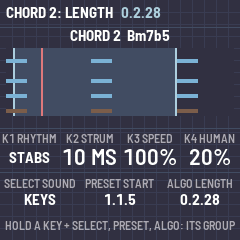
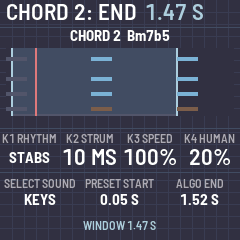
0.40: the window's START and END lines move smoothly (faster turn, bigger steps; HOME held, finest), anywhere up to a quarter past either edge, notes staying put, outside dark and silent; seconds on screen. Progressions one shot, no loop; arps and rhythms go round while held; HOLD chords till let go
Claude-Session: https://claude.ai/code/session_011auXBbJuCRdHVG1fENKT8m

diff --git a/app/app.c b/app/app.c
@@ -275,7 +275,8 @@ typedef struct {
     uint8_t plays, human, speed, vel;    /* speed: SPEED_PCT[]; vel 0: as you play it, else that velocity */
     int8_t len, inv, oct, rsv;
     uint8_t strum, swing, bm, rsv2;      /* strum: 5 ms steps (0 off); swing: 50 .. 75 %; bm: BASS, NO BASS, NO ROOT */
-    uint16_t st, sl;                     /* the window: START (ticks in), its LENGTH (ticks; 0: to the end, a bar) */
+    int16_t st, sl;                      /* the window: START, END (ticks; END 0: the sequence's end). Up to a quarter
+                                          * of the sequence past either edge, silent there */
 } pfx_t;
 static const uint16_t SPEED_PCT[7] = {50, 67, 75, 100, 133, 150, 200};
 static PLAT_POOL pad_t pads[NPADS + 1];
@@ -811,13 +812,15 @@ static void pl_release(uint32_t i)
             pl[i].snd[k] = 0;
         }
 }
-static uint32_t pwin_len(uint32_t i)     /* a pad's window: its LENGTH, or from START to its end (a chord: a bar) */
+static int32_t seq_len(uint32_t i)       /* a key's sequence: a progression's bars, a chord's bar */
 {
-    const pfx_t *f = &pfx[i];
-    uint32_t full = pads[i].type == PAD_PROG ? pads[i].len : 4u * PPQ;
-    if (f->sl)
-        return f->sl;
-    return full > f->st + 12u ? full - f->st : 12u;
+    return pads[i].type == PAD_PROG ? (int32_t)pads[i].len : (int32_t)(4u * PPQ);
+}
+static int32_t win_end(uint32_t i) { return pfx[i].sl ? pfx[i].sl : seq_len(i); }
+static uint32_t pwin_len(uint32_t i)     /* a key's window: START to END */
+{
+    int32_t l = win_end(i) - pfx[i].st;
+    return l > 12 ? (uint32_t)l : 12u;
 }
 static void phrase_tick(uint32_t n)
 {
@@ -871,13 +874,9 @@ static void phrase_tick(uint32_t n)
             }
         }
         P->pos = b;
-        if (P->pos >= we) {
+        if (P->pos >= we) {              /* START to END once: no loop (the LOOP recorder loops) */
             pl_release(i);
-            if (i < NPADS && (pad_held[i] || pad_latched[i]) && we > 0.0f) {
-                P->pos -= we;
-                P->looped = 1;
-            } else
-                P->on = 0;
+            P->on = 0;
         }
     }
 }
@@ -932,6 +931,8 @@ static void cp_start(uint32_t i, uint32_t vel)
         c->vel[k] = (uint8_t)(f->human ? human_vel(vel, f->human) : vel);
         c->sounded[k] = 0;
         c->at[k] = k * ss + (f->human ? cs_rnd() % (f->human * 13u + 1u) : 0u);
+        if (f->st < 0)                   /* START before the chord: a gap before it sounds */
+            c->at[k] += (uint32_t)((float)(-f->st) * SR * 60.0f / ((float)tempo * (float)PPQ) / c->spd);
     }
     c->t = c->next = c->idx = c->off = 0;
     c->u = c->left = 0.0f;
@@ -965,7 +966,7 @@ static void cp_fire(cplay_t *c, float t0, float t1)   /* the hits in [t0, t1), p
     uint32_t j = t0 > step ? (uint32_t)(t0 / step) - 1u : 0u, k, li = (uint32_t)(c->len + 5);
     for (;; j++) {
         float tj = grid_t(j, step, c->swing);
-        if (tj >= t1)
+        if (tj >= t1 || tj >= (float)(4u * PPQ))   /* past the bar: the window's silent extra */
             break;
         if (tj < t0)
             continue;
@@ -1551,7 +1552,7 @@ static void undo_swap(void)              /* one step back; again: forward */
 
 /* ------------------------------------------------------ SAVE and LOAD --- */
 /* the session: the settings; every pad's source, its PAD EDIT and (LOCKed or recorded) its notes */
-#define SESS_MAGIC 0x34534553u           /* "SES4" */
+#define SESS_MAGIC 0x35534553u           /* "SES5" */
 typedef struct {
     uint32_t magic;
     desc_t d[NPADS];
@@ -1855,6 +1856,18 @@ static void loop_play(void)              /* PLAY: stop it; armed, the intro and 
         app_say("LOOP", "EMPTY: REC, THEN PLAY");
 }
 
+static void sec_text(uint32_t tk, int32_t i, char *t)   /* ticks as seconds at the BPM and the key's speed: "2.40 S" */
+{
+    float sp = (float)SPEED_PCT[pfx[i].speed % 7u] / 100.0f;
+    uint32_t cs = (uint32_t)((float)tk * 6000.0f / ((float)tempo * (float)PPQ) / sp + 0.5f), l;   /* hundredths */
+    num_text((int32_t)(cs / 100u), t, 0);
+    l = cs_len(t);
+    t[l] = '.';
+    t[l + 1u] = (char)('0' + cs / 10u % 10u);
+    t[l + 2u] = (char)('0' + cs % 10u);
+    t[l + 3u] = 0;
+    text_cat(t, " S");
+}
 /* SELECT's list for a group: a sound, or MIDI 1-4 (silent on the FM-1, out on that channel) */
 static void sel_name(uint32_t v, char *t)
 {
@@ -2315,8 +2328,8 @@ buttons:
                 ui.co_pick = (uint8_t)clamp(ui.co_pick + k1, CO_OFF, CO_ALWAYS);
             es = k1 = k2 = k3 = k4 = ek = ea = 0;
         }
-        /* SELECT, PRESET, ALGO: only with a key held. SELECT: the group's sound or MIDI channel. PRESET: START,
-         * ALGO: LENGTH of the window the group plays (1/32 of a beat a click; HOME held: a 16th) */
+        /* SELECT, PRESET, ALGO: only with a key held. SELECT: the group's sound or MIDI channel. PRESET: the START
+         * line, ALGO: the END line of the window the group plays, smooth (HOME held: the finest) */
         if ((es || ek || ea) && ui.screen != SCR_PICK) {
             uint32_t hp = held_pads(), hn = held_notes(), j, r = 0;
             if (hp)
@@ -2324,30 +2337,50 @@ buttons:
                     r++;
             if (es && (hp || hn))
                 sel_step(hp ? (r < 8u ? 0u : 1u) : 2u, es);
-            if ((ek || ea) && hp) {
-                int32_t stp = shift() ? 24 : 3;
+            if ((ek || ea) && hp) {      /* the window's lines, smooth: tiny steps, bigger the faster you turn */
+                static uint32_t at_k, at_a;
+                uint32_t now2 = plat_ms(), dtk = now2 - (ek ? at_k : at_a);
+                int32_t full_r = seq_len(r), stp = full_r / 300 > 1 ? full_r / 300 : 1, d = ek ? ek : ea;
                 uint32_t g = pad_grp(r), m = grp_pads(g) | hp;
-                int32_t ref_st = (int32_t)pfx[r].st + ek * stp, ref_l = (int32_t)pwin_len(r) + ea * stp;
+                int hold_chord = pads[r].type == PAD_CHORD && (pfx[r].plays == RH_HOLD);
                 char t[16];
-                for (j = 0; j < NPADS; j++)
-                    if ((m >> j & 1u) && pads[j].type != PAD_EMPTY && pad_grp(j) == g) {
-                        int32_t full = pads[j].type == PAD_PROG ? (int32_t)pads[j].len : (int32_t)(4u * PPQ);
-                        if (ek)
-                            pfx[j].st = (uint16_t)clamp(ref_st, 0, full - 12);
-                        if (ea)
-                            pfx[j].sl = (uint16_t)clamp(ref_l, 12, pads[j].type == PAD_PROG ? 2 * full : 16 * (int32_t)PPQ);
-                        cp[j].st = (float)pfx[j].st;
-                        cp[j].wl = (float)pwin_len(j);
-                    }
-                pos_text(ek ? pfx[r].st : pwin_len(r), t, ek != 0);
-                edit_say(ek ? "START" : "LENGTH", t);
+                if (shift())
+                    stp = 1;
+                else if (dtk < 40u)
+                    stp *= 6;
+                else if (dtk < 110u)
+                    stp *= 3;
+                if (ek)
+                    at_k = now2;
+                else
+                    at_a = now2;
+                if (ea && hold_chord)
+                    app_say("END", "n/a: A HELD CHORD PLAYS TILL YOU LET GO");
+                else {
+                    int32_t ref_st = pfx[r].st + d * stp, ref_en = win_end(r) + d * stp;
+                    for (j = 0; j < NPADS; j++)
+                        if ((m >> j & 1u) && pads[j].type != PAD_EMPTY && pad_grp(j) == g) {
+                            int32_t full = seq_len(j), q = full / 4;
+                            int hc = pads[j].type == PAD_CHORD && pfx[j].plays == RH_HOLD;
+                            if (ek)              /* START: a quarter before it .. the END */
+                                pfx[j].st = (int16_t)clamp(ref_st, -q, hc ? 0 : win_end(j) - 12);
+                            if (ea && !hc) {     /* END: the START .. a quarter after it */
+                                int32_t e = clamp(ref_en, pfx[j].st + 12, full + q);
+                                pfx[j].sl = (int16_t)(e == full ? 0 : e);
+                            }
+                            cp[j].st = (float)pfx[j].st;
+                            cp[j].wl = (float)pwin_len(j);
+                        }
+                    sec_text(pwin_len(r), r, t);
+                    edit_say(ek ? "START" : "END", t);
+                }
                 set_dirty = 1;
                 if (ui.screen != SCR_PAD) {   /* the window shows while the key is held */
                     ui.peek = (uint8_t)(ui.screen + 1u);
                     ui.screen = SCR_PAD;
                 }
             } else if ((ek || ea) && !hp)
-                app_say(ek ? "START" : "LENGTH", hn ? "NOTE KEYS: n/a" : "HOLD A CHORD OR PROGRESSION KEY");
+                app_say(ek ? "START" : "END", hn ? "NOTE KEYS: n/a" : "HOLD A CHORD OR PROGRESSION KEY");
             else if (es && !hp && !hn)
                 app_say("SOUND", "HOLD A KEY AND TURN SELECT");
             es = ek = ea = 0;
@@ -3042,8 +3075,6 @@ static void draw_roll(uint32_t i, int32_t x0, int32_t y0, int32_t w, int32_t h)
         }
         for (k = 0; k < cn; k++)
             v[k] += 12 * f->oct;
-        if ((float)(f->st + pwin_len(i)) > W && f->plays != RH_HOLD)
-            W = (float)(f->st + pwin_len(i));
         if (RH_ARP(f->plays) && cn) {
             uint32_t dir = f->plays - RH_ARPUP;
             float step = 48.0f, t = 0.0f;
@@ -3077,53 +3108,57 @@ static void draw_roll(uint32_t i, int32_t x0, int32_t y0, int32_t w, int32_t h)
             }
         if (cp[i].on && f->plays != RH_HOLD)
             head = cp[i].u + cp[i].st;
-        else if (cp[i].on) {
-            float bar = 4.0f * 60.0f / (float)tempo * SR / spd;
-            float t = (float)cp[i].t;
-            head = (t - (float)(int32_t)(t / bar) * bar) / bar * W;
-        }
+        else if (cp[i].on)               /* held: from the START line, then it stays at the bar's end */
+            head = fm_minf((float)f->st + (float)cp[i].t * (float)tempo * (float)PPQ * spd / (60.0f * SR), W - 1.0f);
     } else
         return;
-    cv_rect(x0, y0, w, h, ES_SLATE);
-    if (p->type == PAD_PROG || f->plays != RH_HOLD) {   /* the window: dark outside, START and END lines */
-        float a = (float)f->st, e = fm_minf((float)(f->st + pwin_len(i)), W);
-        int32_t xa = x0 + (int32_t)(a / W * (float)w), xe = x0 + (int32_t)(e / W * (float)w);
-        if (xa > x0)
+    {
+        /* the view: the sequence, and the lines wherever they are (a quarter past either edge at most) */
+        int hc = p->type == PAD_CHORD && f->plays == RH_HOLD;
+        float D0 = fm_minf(0.0f, (float)f->st), D1 = hc ? W : fm_maxf(W, (float)win_end(i)), DW = D1 - D0;
+        float a = (float)f->st, e = hc ? W : (float)win_end(i);
+#define RX(t) (x0 + (int32_t)(((t) - D0) / DW * (float)w))
+        int32_t xa = RX(a), xe = RX(e);
+        cv_rect(x0, y0, w, h, ES_SLATE);
+        cv_rect(RX(0.0f), y0 + h - 2, RX(W) - RX(0.0f), 2, ES_PURPLE);   /* the sequence itself */
+        if (xa > x0)                     /* outside the window: dark, silent */
             cv_rect(x0, y0, xa - x0, h, ES_INK);
         if (xe < x0 + w)
             cv_rect(xe, y0, x0 + w - xe, h, ES_INK);
+        for (k = 1; k < bars; k++)
+            cv_rect(RX(W * (float)k / (float)bars), y0, 1, h, ES_PURPLE);
         cv_rect(xa, y0, 2, h, AIR_C);
-        cv_rect(xe > x0 + 1 ? xe - 2 : xe, y0, 2, h, AIR_C);
+        if (!hc)
+            cv_rect(xe > x0 + 1 ? xe - 2 : xe, y0, 2, h, AIR_C);
+        if (!n || W <= 0.0f)
+            return;
+        for (k = 0; k < n; k++) {
+            if ((uint32_t)pi[k] < lo)
+                lo = (uint32_t)pi[k];
+            if ((uint32_t)pi[k] > hi)
+                hi = (uint32_t)pi[k];
+        }
+        rh = (h - 4) / (int32_t)(hi - lo + 1u);
+        if (rh > 8)
+            rh = 8;
+        if (rh < 1)
+            rh = 1;
+        for (k = 0; k < n; k++) {
+            int32_t x = RX(st[k]), xw = (int32_t)(du[k] / DW * (float)w);
+            int32_t y = y0 + h - 4 - ((int32_t)((uint32_t)pi[k] - lo) + 1) * rh;
+            int on = head >= st[k] && head < st[k] + du[k], out = st[k] < a || st[k] >= e;
+            if (x >= x0 + w)
+                continue;
+            if (xw < 2)
+                xw = 2;
+            if (x + xw > x0 + w)
+                xw = x0 + w - x;
+            cv_rect(x, y, xw, rh > 2 ? rh - 1 : rh, out ? ES_PURPLE : (uint32_t)pi[k] == lo ? EARTH_C : on ? C_WHITE : WATER_C);
+        }
+        if (head >= D0 && head < D1)
+            cv_rect(RX(head), y0, 2, h, FIRE_C);
+#undef RX
     }
-    for (k = 1; k < bars; k++)
-        cv_rect(x0 + w * (int32_t)k / (int32_t)bars, y0, 1, h, ES_PURPLE);
-    if (!n || W <= 0.0f)
-        return;
-    for (k = 0; k < n; k++) {
-        if ((uint32_t)pi[k] < lo)
-            lo = (uint32_t)pi[k];
-        if ((uint32_t)pi[k] > hi)
-            hi = (uint32_t)pi[k];
-    }
-    rh = (h - 4) / (int32_t)(hi - lo + 1u);
-    if (rh > 8)
-        rh = 8;
-    if (rh < 1)
-        rh = 1;
-    for (k = 0; k < n; k++) {
-        int32_t x = x0 + (int32_t)(st[k] / W * (float)w), xw = (int32_t)(du[k] / W * (float)w);
-        int32_t y = y0 + h - 2 - ((int32_t)((uint32_t)pi[k] - lo) + 1) * rh;
-        int on = head >= st[k] && head < st[k] + du[k];
-        if (x >= x0 + w)
-            continue;
-        if (xw < 2)
-            xw = 2;
-        if (x + xw > x0 + w)
-            xw = x0 + w - x;
-        cv_rect(x, y, xw, rh > 2 ? rh - 1 : rh, (uint32_t)pi[k] == lo ? EARTH_C : on ? C_WHITE : WATER_C);
-    }
-    if (head >= 0.0f)
-        cv_rect(x0 + (int32_t)(head / W * (float)w), y0, 2, h, FIRE_C);
 }
 static void draw_pad(void)               /* EDIT: the group played last (or the keys held), as the web's pad edit */
 {
@@ -3131,7 +3166,7 @@ static void draw_pad(void)               /* EDIT: the group played last (or the 
     uint32_t h = held_pads();
     char t[32], v[4][12], w[3][12];
     static const char *const LBL[4] = {"K1 RHYTHM", "K2 STRUM", "K3 SPEED", "K4 HUMAN"};
-    static const char *const LB2[3] = {"SELECT SOUND", "PRESET START", "ALGO LENGTH"};
+    static const char *const LB2[3] = {"SELECT SOUND", "PRESET START", "ALGO END"};
     uint32_t k;
     lab_begin();
     if (h)
@@ -3192,13 +3227,15 @@ static void draw_pad(void)               /* EDIT: the group played last (or the 
             str_set(v[3], "OFF", sizeof v[3]);
         bottom_bar(8, LBL, v);
         sel_name(set.snd[r < 8 ? 0 : 1], w[0]);
-        if (pads[r].type == PAD_CHORD && f->plays == RH_HOLD) {
-            str_set(w[1], "n/a", sizeof w[1]);
-            str_set(w[2], "n/a", sizeof w[2]);
-        } else {
-            pos_text(f->st, w[1], 1);
-            pos_text(pwin_len((uint32_t)r), w[2], 0);
-        }
+        if (f->st < 0) {                 /* START: the gap before (-), or how far in */
+            w[1][0] = '-';
+            sec_text((uint32_t)(-f->st), r, w[1] + 1);
+        } else
+            sec_text((uint32_t)f->st, r, w[1]);
+        if (pads[r].type == PAD_CHORD && f->plays == RH_HOLD)
+            str_set(w[2], "TILL LET GO", sizeof w[2]);
+        else
+            sec_text((uint32_t)win_end((uint32_t)r), r, w[2]);
         cv_rect(0, 52, 240, 1, ES_SLATE);
         for (k = 0; k < 3u; k++) {
             int32_t cx = (int32_t)k * 80;
@@ -3206,7 +3243,12 @@ static void draw_pad(void)               /* EDIT: the group played last (or the 
             cv_text(cx + (80 - text_w(&FONT_XS, LB2[k])) / 2, 56, &FONT_XS, LB2[k], LAB_LABEL);
             cv_text(cx + 1 + (78 - text_w(ft, w[k])) / 2, 72, ft, w[k], C_WHITE);
         }
-        text_c(98, &FONT_XS, "HOLD A KEY + SELECT, PRESET, ALGO: ITS GROUP", LAB_LABEL);
+        str_set(t, "WINDOW ", sizeof t);
+        if (pads[r].type == PAD_CHORD && f->plays == RH_HOLD)
+            text_cat(t, "TILL YOU LET GO");
+        else
+            sec_text(pwin_len((uint32_t)r), r, t + cs_len(t));
+        text_c(98, &FONT_XS, t, AIR_C);
     }
     cv_blit(0, 120);
 }

diff --git a/app/docs/MANUAL.md b/app/docs/MANUAL.md
@@ -53,7 +53,7 @@ the step, it moves on by itself:
 ## 3. The keys
 
 - **CHORD KEYS**: white keys 1 to 8, your key's chords (1 to 7, then the first one an octave up).
-- **PROGRESSION KEYS**: white keys 9 to 16, progressions of four bars each. A tap plays one once, holding it loops it.
+- **PROGRESSION KEYS**: white keys 9 to 16, progressions of four bars each. A tap plays it once, START to END, even if you let go; tapping again restarts it. SYS stops it. The LOOP recorder does the looping.
   One progression plays at a time: start another and the first stops.
 - **NOTE KEYS**: the first 7 black keys. The notes of your key, from the root up, sounding while you hold them.
 - **C pads**: the last 4 black keys. **BASS**, **NO BASS**, **NO ROOT** and **TAP**.
@@ -90,8 +90,8 @@ the BPM too.
 | K4 | Free for now |
 | OCT- / OCT+ | Octave: of the key you hold, else of the group you played last |
 | Hold a key + SELECT | The group's sound, or MIDI 1-4 |
-| Hold a key + PRESET | The group's window START |
-| Hold a key + ALGO | The group's window LENGTH |
+| Hold a key + PRESET | The group's window START line |
+| Hold a key + ALGO | The group's window END line |
 | HOME, held | SHIFT |
 
 ## The one rule
@@ -126,12 +126,21 @@ that key's whole group.
 | Hold a key and turn | Does |
 |---|---|
 | SELECT | The group's output: a sound (WARM, KEYS, ORGAN, STRINGS, PLUCK, BASS, BELL, LEAD, PAD, BRASS), or MIDI 1, 2, 3 or 4. A sound plays on the FM-1 with no MIDI; MIDI is silent on the FM-1 and goes out on that channel |
-| PRESET | START: where the group's window begins, 1/32 of a beat a click (HOME held: a 16th) |
-| ALGO | LENGTH: how long the window runs before it goes round again, the same steps |
+| PRESET | START: the line where the window begins |
+| ALGO | END: the line where it ends |
 
-The window shows while you turn and closes when you let go: the START and END lines, dark outside. Places read
-BAR.BEAT.32ND. A progression skips into its bars; a chord key on a rhythm or an arp skips into its pattern. A chord
-on HOLD and the note keys have no window (n/a). This is not note LENGTH (home K3), which is how long each note lasts.
+The lines move smoothly, in tiny steps that grow the faster you turn (hold HOME for the finest). They go anywhere,
+notes there or not, up to a quarter of the sequence past either edge, and the notes never move: what's outside the
+lines is dark and doesn't play. The window shows while you turn and closes when you let go, with its length in
+seconds.
+
+- **Progression keys**: a tap plays START to END once.
+- **Chord keys on a rhythm or an arp**: START to END goes round while you hold the key, and stops when you let go.
+- **Chord keys on HOLD (plain or strummed)**: sound until you let go. START before the chord gives a gap before it
+  sounds; END doesn't apply.
+- **Note keys**: a piano, no window.
+
+This is not note LENGTH (home K3), which is how long each note lasts.
 
 ![The window](img/seed-window.png)
 
@@ -221,7 +230,7 @@ MIDI goes out over **USB** and **Bluetooth** (the FM-1's TRS jack is MIDI in onl
 | Control | Does |
 |---|---|
 | Chord keys (white 1 to 8) | Chords. In LIB, take the pick. In REC, pick the key |
-| Progression keys (white 9 to 16) | Progressions, one at a time. A tap plays it once, held it loops |
+| Progression keys (white 9 to 16) | Progressions, one at a time. A tap plays START to END once |
 | Note keys (black 1 to 7) | The notes of the key, lit by the chord you played |
 | C pads (last 4 black keys) | BASS, NO BASS, NO ROOT (the group, or the key held), TAP |
 | HOME | Home. Held: SHIFT. In COACH: skip |
